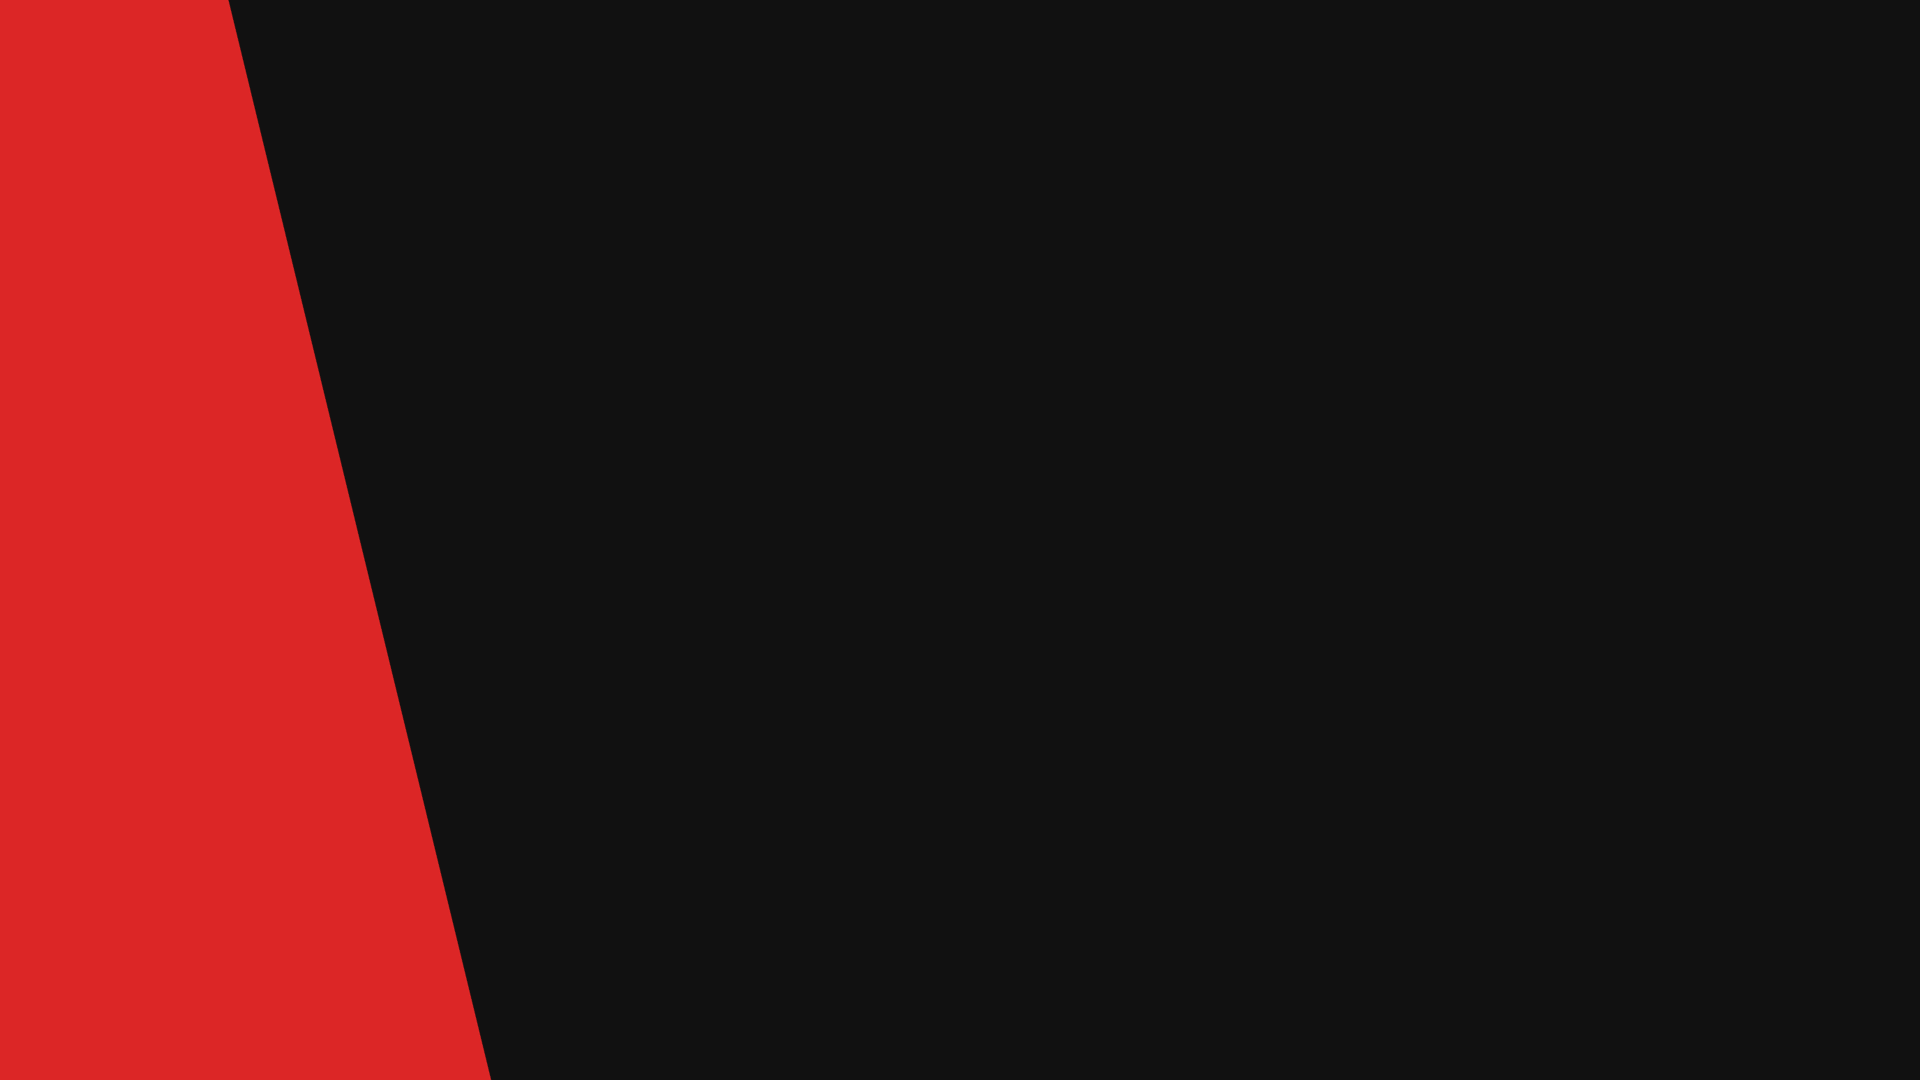
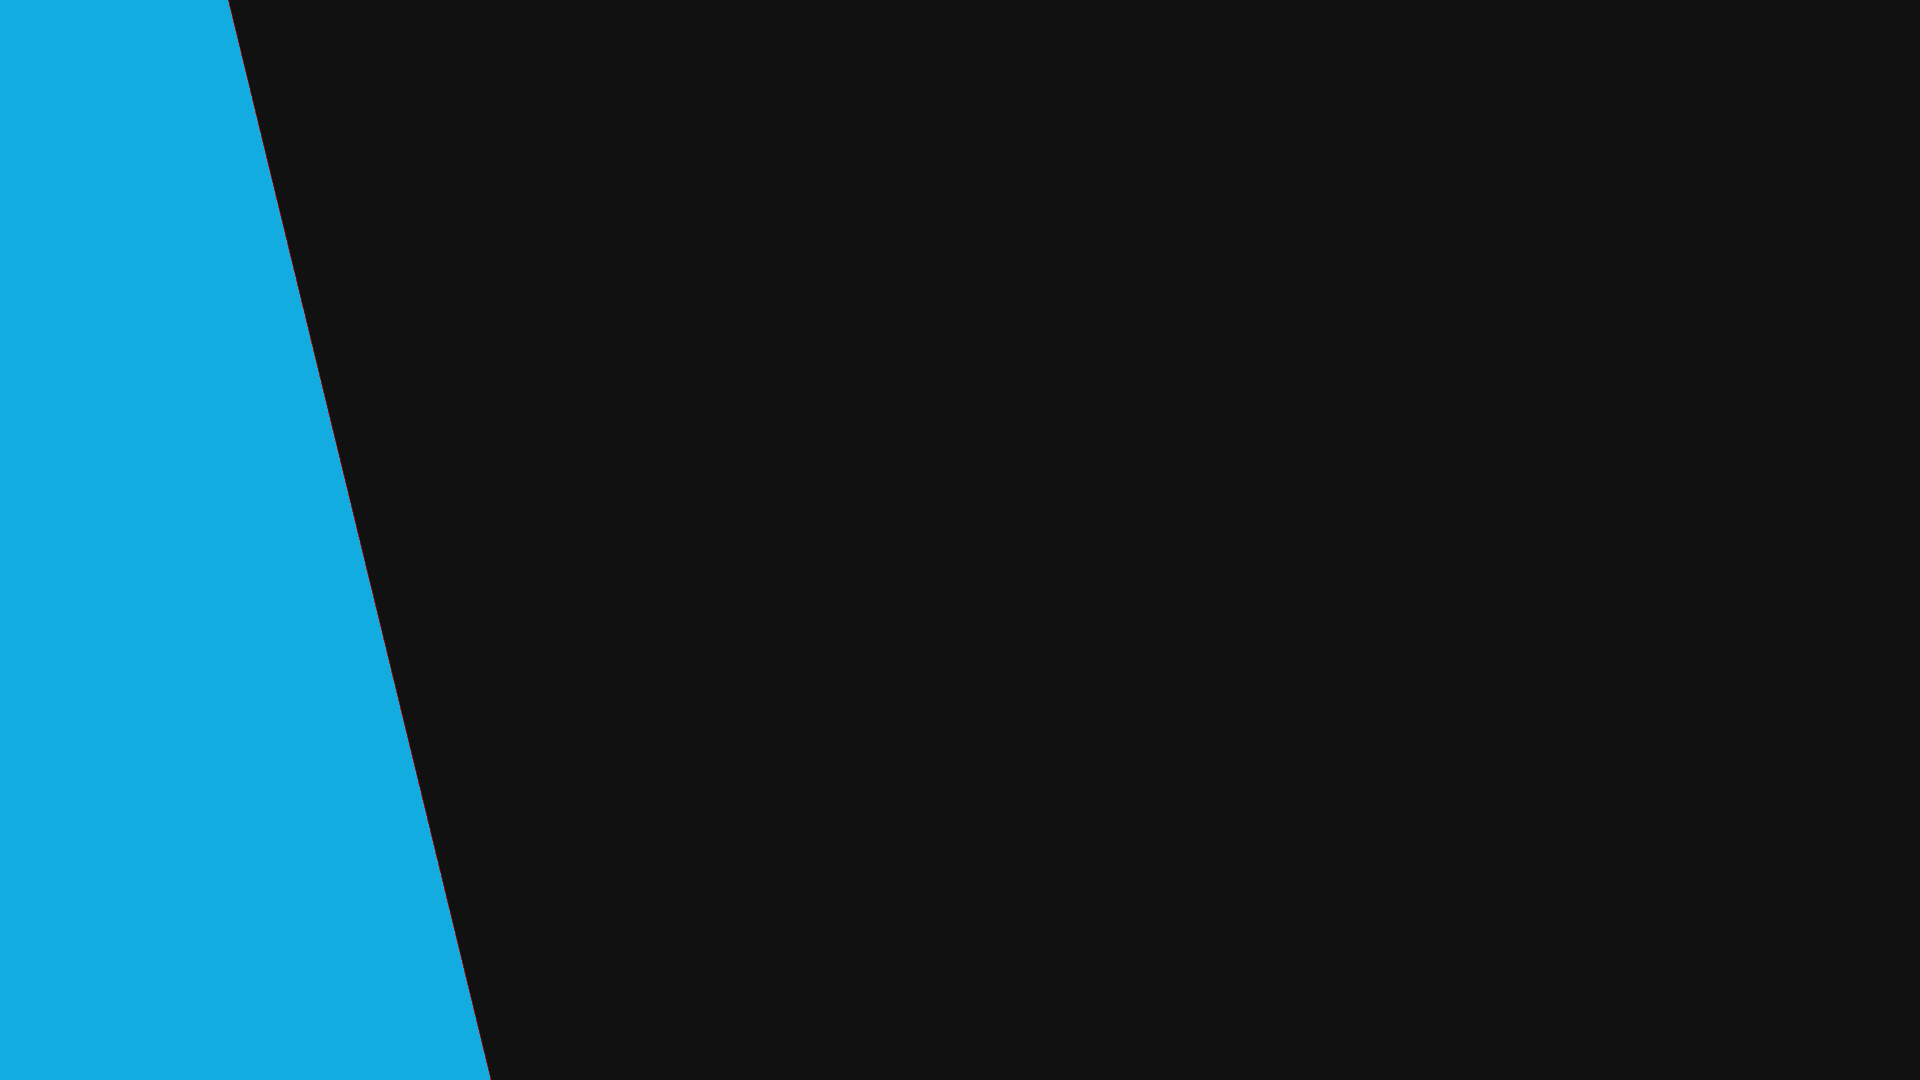
added blue

Changed region(s): [[0.0, 0.0, 0.2812, 1.0]]

diff --git a/clients.html b/clients.html
@@ -1,6 +1,6 @@
 <!--
     
-Welcome to Resupply / Portfolio #2 (Red)
+Welcome to Resupply / Portfolio #2 (blue)
 
 This is a very unique Portfolio template for your use!
 
@@ -105,15 +105,15 @@ Head to https://discord.gg/resupplygg and open a ticket.
         <div class="flex justify-between items-center px-24 py-2">
             <nav class="nav-links flex gap-3 ml-auto">
                 <a href="index.html"
-                    class="nav-link inline-block px-6 py-2 font-bold uppercase text-white rounded-md transition duration-300 ease-in-out hover:bg-red-600">Home</a>
+                    class="nav-link inline-block px-6 py-2 font-bold uppercase text-white rounded-md transition duration-300 ease-in-out hover:bg-blue-600">Home</a>
                 <a href="about.html"
-                    class="nav-link inline-block px-6 py-2 font-bold uppercase text-white rounded-md transition duration-300 ease-in-out hover:bg-red-600">About</a>
+                    class="nav-link inline-block px-6 py-2 font-bold uppercase text-white rounded-md transition duration-300 ease-in-out hover:bg-blue-600">About</a>
                 <a href="clients.html"
-                    class="nav-link active inline-block px-6 py-2 font-bold uppercase text-white rounded-md transition duration-300 ease-in-out bg-red-600 hover:bg-red-700">Clients</a>
+                    class="nav-link active inline-block px-6 py-2 font-bold uppercase text-white rounded-md transition duration-300 ease-in-out bg-blue-600 hover:bg-blue-700">Clients</a>
             </nav>
             <div class="relative ml-32">
                 <a href="#contact"
-                    class="contact-button inline-block px-6 py-2 font-bold uppercase text-white rounded-md transition duration-300 ease-in-out bg-red-600 hover:bg-red-700">
+                    class="contact-button inline-block px-6 py-2 font-bold uppercase text-white rounded-md transition duration-300 ease-in-out bg-blue-600 hover:bg-blue-700">
                     <i class="fas fa-envelope mr-2"></i> Contact
                 </a>
             </div>
@@ -130,7 +130,7 @@ Head to https://discord.gg/resupplygg and open a ticket.
                 <li><strong class="font-semibold">Discord:</strong> gregmclaren</li>
             </ul>
             <button id="closeModalBtn"
-                class="bg-red-600 hover:bg-red-700 text-white py-2 px-4 rounded-md transition duration-300 ease-in-out uppercase font-semibold">Close</button>
+                class="bg-blue-600 hover:bg-blue-700 text-white py-2 px-4 rounded-md transition duration-300 ease-in-out uppercase font-semibold">Close</button>
         </div>
     </div>
 
@@ -173,7 +173,7 @@ Head to https://discord.gg/resupplygg and open a ticket.
         PORTFOLIO
     </h1>
     <h2 class="relative inline-block px-4 py-2 z-10 text-white text-[3rem] font-bold uppercase">My <span
-            class="text-red-600">Clients</span></h2>
+            class="text-blue-600">Clients</span></h2>
 </section>
 
 <section class="px-12 py-12">
@@ -220,7 +220,7 @@ Head to https://discord.gg/resupplygg and open a ticket.
                 <div class="flex items-center mb-4">
                     <img src="images/guy-ceo.png" alt="Client Avatar" class="w-12 h-12 object-cover rounded-full">
                     <div class="ml-4">
-                        <h3 class="text-lg font-semibold text-red-600">John Doe</h3>
+                        <h3 class="text-lg font-semibold text-blue-600">John Doe</h3>
                         <p class="text-sm text-white">CTO, Meta Facebook</p>
                     </div>
                 </div>
@@ -242,7 +242,7 @@ Head to https://discord.gg/resupplygg and open a ticket.
                 <div class="flex items-center mb-4">
                     <img src="images/girl-ceo.png" alt="Client Avatar" class="w-12 h-12 object-cover rounded-full">
                     <div class="ml-4">
-                        <h3 class="text-lg font-semibold text-red-600">Jane Smith</h3>
+                        <h3 class="text-lg font-semibold text-blue-600">Jane Smith</h3>
                         <p class="text-sm text-white">Designer, OBS Studios</p>
                     </div>
                 </div>
@@ -263,7 +263,7 @@ Head to https://discord.gg/resupplygg and open a ticket.
                 <div class="flex items-center mb-4">
                     <img src="images/guy-ceo-2.png" alt="Client Avatar" class="w-12 h-12 object-cover rounded-full">
                     <div class="ml-4">
-                        <h3 class="text-lg font-semibold text-red-600">Bob Johnson</h3>
+                        <h3 class="text-lg font-semibold text-blue-600">Bob Johnson</h3>
                         <p class="text-sm text-white">Marketing Manager, Google</p>
                     </div>
                 </div>
